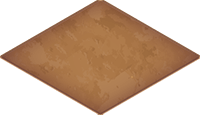
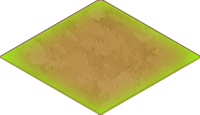
Saving on back button, diamond and menu graphics [fixes 68]

diff --git a/Spacefarm/assets/www/farming/sceneMap.js b/Spacefarm/assets/www/farming/sceneMap.js
@@ -185,14 +185,14 @@ farming.SceneMap.prototype.drawControls = function () {
     var controlArea = new lime.Sprite().setAnchorPoint(0, 0)
         .setPosition(0, SETTINGS.screen.height - SETTINGS.size.controls.height)
         .setSize(this.game.screen.width, SETTINGS.size.controls.height)
-        .setFill(SETTINGS.color.controls_background)
+        .setFill('images/menu.png')
     this.controlsLayer.appendChild(controlArea);
 
     // Money
     this.moneyImage = new lime.Sprite().setFill('images/coin_dark.png')
-        .setSize(SETTINGS.size.controls.height * 0.8, SETTINGS.size.controls.height * 0.8).setPosition(this.game.screen.width - 90, SETTINGS.screen.height - SETTINGS.size.controls.height / 2);
+        .setSize(45,45).setPosition(this.game.screen.width - 95, SETTINGS.screen.height - SETTINGS.size.controls.height / 2 + 8);
     this.moneyLabel = new lime.Label().setFontColor(SETTINGS.color.controls_label).setFontWeight(600).setFontSize(20)
-        .setPosition(this.game.screen.width - 40, SETTINGS.screen.height - SETTINGS.size.controls.height / 2);
+        .setPosition(this.game.screen.width - 43, SETTINGS.screen.height - SETTINGS.size.controls.height / 2 + 8);
 
     // Create the labels for the cloning function
 
@@ -220,35 +220,35 @@ farming.SceneMap.prototype.drawControls = function () {
     var bh = 115/2;
     // Farmbutton
     this.farmButton = new farming.Button('images/buttons/items.png','images/buttons/items_active.png').setColor(SETTINGS.color.button)
-        .setPosition(bw/2+60, SETTINGS.screen.height - SETTINGS.size.controls.height / 2)
+        .setPosition(bw/2+60, SETTINGS.screen.height - SETTINGS.size.controls.height / 2 + 6)
         .setSize(bw, bh).setAction(this.showFarm, this);
     this.controlsLayer.appendChild(this.farmButton);
     this.buttons['farm'] = this.farmButton;
 
     // Clonebutton
     this.cloneButton = new farming.Button('images/buttons/clone.png','images/buttons/clone_active.png').setColor(SETTINGS.color.button)
-        .setPosition(bw/2+60+bw*1, SETTINGS.screen.height - SETTINGS.size.controls.height / 2)
+        .setPosition(bw/2+60+bw*1, SETTINGS.screen.height - SETTINGS.size.controls.height / 2 + 6)
         .setSize(bw, bh).setAction(this.showClone, this);
     this.controlsLayer.appendChild(this.cloneButton);
     this.buttons['clone'] = this.cloneButton;
 
     // Challengebutton
     this.challengeButton = new farming.Button('images/buttons/challenges.png','images/buttons/challenges_active.png').setColor(SETTINGS.color.button)
-        .setPosition(bw/2+60+bw*2+17, SETTINGS.screen.height - SETTINGS.size.controls.height / 2)
+        .setPosition(bw/2+60+bw*2+17, SETTINGS.screen.height - SETTINGS.size.controls.height / 2 + 6)
         .setSize(305/2, bh).setAction(this.showChallenge, this);
     this.controlsLayer.appendChild(this.challengeButton);
     this.buttons['challenge'] = this.challengeButton;
 
     // BODYbutton
     this.bodyButton = new farming.Button('images/buttons/body.png','images/buttons/body_active.png').setColor(SETTINGS.color.button)
-        .setPosition(bw/2+60+bw*3+33, SETTINGS.screen.height - SETTINGS.size.controls.height / 2)
+        .setPosition(bw/2+60+bw*3+33, SETTINGS.screen.height - SETTINGS.size.controls.height / 2 + 6)
         .setSize(bw, bh).setAction(this.showBody, this);
     this.controlsLayer.appendChild(this.bodyButton);
     this.buttons['body'] = this.bodyButton;
 
     // Settingsbutton
     this.settingsButton = new farming.Button('images/buttons/settings.png','images/buttons/settings_active.png').setColor(SETTINGS.color.button)
-        .setPosition(30, SETTINGS.screen.height - SETTINGS.size.controls.height / 2)
+        .setPosition(30, SETTINGS.screen.height - SETTINGS.size.controls.height / 2 + 6)
         .setSize(bh, bh).setAction(this.showSettings, this);
     this.controlsLayer.appendChild(this.settingsButton);
     this.buttons['settings'] = this.settingsButton;

diff --git a/Spacefarm/assets/www/farming/settings.js b/Spacefarm/assets/www/farming/settings.js
@@ -22,7 +22,7 @@ var SETTINGS = {
     },
     createOverlay : function(){
         return new farming.Sprite().setFill(SETTINGS.color.background_overlay).preventClickThrough()
-            .setSize(800,480-SETTINGS.size.controls.height).setPosition(400,(480 - SETTINGS.size.controls.height) / 2);
+            .setSize(800,480).setPosition(400,240);
     },
     color: {
         tile: '#b08251',
@@ -35,8 +35,7 @@ var SETTINGS = {
         green: '#22CC22',
         red: '#CC2222',
         black: '#000000',
-        controls_label: '#ffe478',
-        controls_background: '#0D0D0D'
+        controls_label: '#ffe478'
     },
 
     size: {
@@ -47,7 +46,7 @@ var SETTINGS = {
         background_layer_full: new goog.math.Size(800,480),
         tiles: new goog.math.Size(200, 116),
         controls: {
-            height: 60
+            height: 77
         }
     },
 

diff --git a/Spacefarm/assets/www/farming/tile.js b/Spacefarm/assets/www/farming/tile.js
@@ -80,8 +80,9 @@ farming.Tile.prototype.updateColor = function () {
     var item = this.getItem();
     if(this.disabled) return;
     if(!item) this.setFill(this.game.currentClone ? 'images/tile_cloning.png' : 'images/tile.png');
-    else if(item.isRotten() || this.isHungry()) this.setFill('images/tile_rotten.png');
-    else if(item.isHarvestable()) this.setFill('images/tile_active.png');
+    else if(item.isRotten()) this.setFill('images/tile_rotten.png');
+    else if(this.isHungry()) this.setFill('images/tile_hungry.png');
+    else if(item.isHarvestable()) this.setFill('images/tile_ripe.png');
     else this.setFill('images/tile.png');
 }
 farming.Tile.prototype.removeItem = function () {

diff --git a/Spacefarm/assets/www/farming/game.js b/Spacefarm/assets/www/farming/game.js
@@ -115,6 +115,10 @@ farming.Game = function() {
         if(!game.saveAtClose) return;
         game.save()
     }, false);
+    document.addEventListener("backbutton", function(){
+        if(!game.saveAtClose) return;
+        game.save()
+    }, false);
     window.onbeforeunload = function(){
         if(!game.saveAtClose) return;
         game.save()

diff --git a/Spacefarm/assets/www/farming/livestock.js b/Spacefarm/assets/www/farming/livestock.js
@@ -159,7 +159,7 @@ var LIVESTOCK = {
         cost: 120,
         revenue: 40,
         revenue_item: 'wool',
-        food: 'space_wheat',
+        food: 'carrot',
         time_between_harvests: 120 * SETTINGS.timeUnit(),
         exercise: 'sky_kicks',
         required_level: 2

diff --git a/Spacefarm/assets/www/farming/item.js b/Spacefarm/assets/www/farming/item.js
@@ -49,6 +49,10 @@ var ITEMS = {
     strawberry : {
         name: 'Space Berry',
         revenue: 15
+    },
+    diamond : {
+        name: 'Diamond',
+        revenue: 30
     }
 };
 
